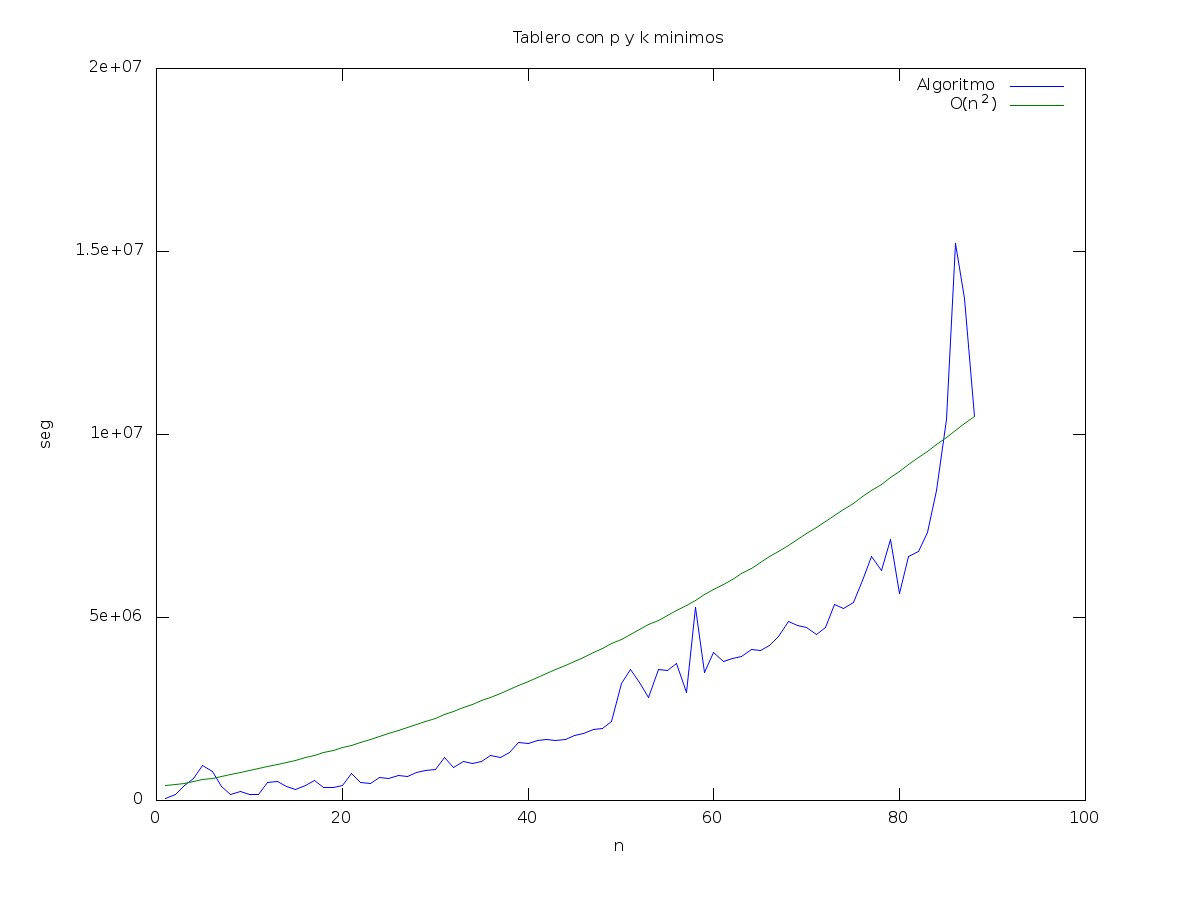
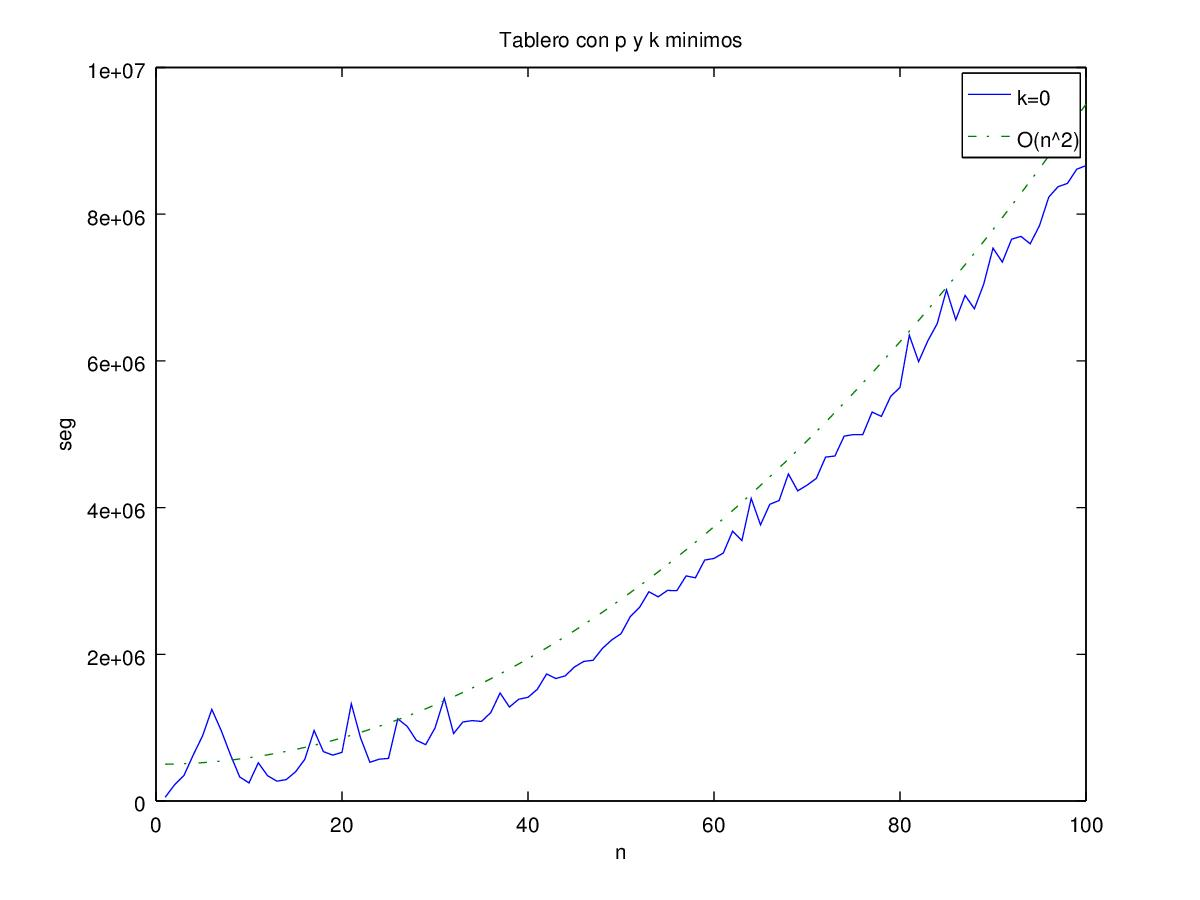
Informe terminado

diff --git a/docs/ej3.tex b/docs/ej3.tex
@@ -10,12 +10,12 @@ El problema esta en encontrar la cantidad m\'inima de saltos que puede hacer un 
 
 El problema lo modelamos con un grafo, donde cada casillero es un nodo del mismo, y existe arista entre dos nodos, si y solo si son alcanzables en un salto. Ahora bien, para determinar si existe un salto entre dos casilleros hay que tener en cuenta las potencias extras que poseemos al momento de realizar el salto. A pesar de ello, las aristas no tienen pesos, y por eso usando un algoritmo como BFS podemos determinar la distancia m\'inima entre dos nodos y es este el que vamos a usar para encontrar la soluci\'on al problema propuesto. 
 
-Asique lo que usamos es un BFS sobre un grafo \textit{din\'amico}, ya que el conjunto de nodos adyacentes a un nodo $v$ va a ir cambiando dependiendo de las potencias que tenga en ese momento, aunque como mucho puede en un casillero puedo saltar a todos los de arriba, a todos los de abajo y a todos los de los costados. Es decir, $d(v) \leq 2(n-1)$. 
+Asique lo que usamos es un BFS sobre un grafo \textit{din\'amico}, ya que el conjunto de nodos adyacentes a un nodo $v$ va a ir cambiando dependiendo de las potencias que tenga en ese momento, aunque como mucho puede en un casillero puedo saltar a todos los de arriba, a todos los de abajo y a todos los de los costados. Es decir, a grosso modo, $d(v) \leq 2(n-1)$. 
 
 Veamos que la complejidad pedida tambi\'en se cumple, ya que el grafo tiene $n^2$ nodos, y las aristas son: 
 
 \begin{equation*}
- m = \sum_{v \in V} d(v) / 2 \leq \sum_{v \in V} 2(n-1) / 2 = n^2 (n-1) = n^3 - n^2
+ |E| = \sum_{v \in V} d(v) / 2 \leq \sum_{v \in V} 2(n-1) / 2 = n^2 (n-1) = n^3 - n^2
 \end{equation*}
 
 Por lo tanto, la complejidad del BFS queda en $O(|V| + |E|) \leq O(n^2 + n^3 - n^2) = O(n^3) \in O(n^3 k)$. 
@@ -55,7 +55,7 @@ Una vez que encontramos a \code{dst} (sabemos que lo hace porque BFS termina), n
 A continuaci\'on escribiremos en pseudoc\'odigo el BFS y la construcci\'on de la soluci\'on
 
 \begin{algorithm}[H]
-\caption{int resolver(){}
+\caption{int resolver()}
 \begin{algorithmic}[1]
   \STATE return bfs([src], 1);
 \end{algorithmic}
@@ -82,7 +82,36 @@ A continuaci\'on escribiremos en pseudoc\'odigo el BFS y la construcci\'on de la
 
 \subsection{Test de complejidad}
 
-\subsection{Compilar y ejecutar}
+Como ya calculamos anteriormente en la secci\'on \textbf{Resoluci\'on}, la complejidad de nuestro algoritmo es $O(n^3)$, acotando la cantidad de adyacentes que puede tener un nodo por $2(n-1)$. 
+
+Aunque si queremos tener en cuenta a $k$, podemos considerar constante los $p$ y estimar que $d(v)$ va a ser menor o igual a $4k$, para cualquier $v$, ya que como mucho va a haber una arista a cada $k$ nodo en las cuatro direcciones. Luego, las cantidad de aristas del grafo del tablero es
+
+\begin{equation*}
+ |E| = \sum_{v \in V} d(v) / 2 \leq \sum_{v \in V} 4k / 2 = n^2 2k
+\end{equation*}
+
+Y la complejidad de BFS teniendo en cuenta a $k$ queda en $O(|V|+|E|) \leq O(n^2 + n^2 k) \leq O(n^2k) \in O(n^3k)$. 
+
+Para evaluar la complejidad analizamos tres casos: 
+
+\begin{enumerate}
+ \item Primero estudiamos el impacto del tama\~no del tablero en nuestro algoritmo, teniendo un $p$ constante m\'inimo, y sin potencia adicional. 
+ 
+ \item Segundo, siendo el tama\~no constante, como influye la cantidad de potencia adicional. 
+ 
+ \item Por \'ultimo, contrastamos el impacto de $k$ en tablero de distintos tama\~nos. 
+\end{enumerate}
+
+\ponerGrafico{./ej3/caso_uno.jpg}{Tiempo usando un tablero con $p=1$ y $k=0$}{0.6}{}
+Como era esperable, en funci\'on del tama\~no, el algoritmo resuelve el problema en un orden cuadrado. 
+
+\ponerGrafico{./ej3/caso_tres_lineal.jpg}{En funci\'on de $k$, fijando $n=100$}{0.6}{}
+
+Este caso tambi\'en confirmamos nuestros hip\'otesis de que en funci\'on del $k$, la complejidad es lineal. 
+
+\ponerGrafico{./ej3/caso_dos_plot.jpg}{Contraste de distintos tama\~nos, en funci\'on de $k$}{0.6}{}
+
+Como \'ultimo experimento quisimos constrastamo el impacto del $k$ en distintos tama\~nos, y si bien todos un crecimiento proporcional, a mayor tama\~no m\'as tiempo le toma al algoritmo encontrar la soluci\'on, y esto tiene sentido porque hay mayor cantidad de vecinos que recorrer. 
 
 \subsection{C\'odigo fuente}
 
@@ -215,6 +244,7 @@ Complejidad: $O(n)$
 \subsection{Adicionales}
 
 \subsubsection{Modificaciones del Algoritmo}
+
 La modificaci\'on del juego \textit{La Matrix} consiste en agregarle un costo proporcional al salto a cada resorte. Los jugadores aun tienen $k$ potencias que pueden utilizar para agregar gratuitamente potencias a su salto.
 
 Se nos pide modificar el algoritmo para llegar de un origen a destino con la m\'inima cantidad de costo posible.
@@ -227,9 +257,9 @@ En este juego, surge el problema de que puedo tener m\'as de un costo para llega
 
 \subsubsection{Modificaciones de la Complejidad}
 
-La complejidad depende principalmente del Algoritmo de Dijkstra, que se ejecuta sobre un grafo de $(n^2)k$ nodos. Si lo implementamos utilizando una cola de prioridad, Dijkstra tiene complejidad de $O((|V|)log(|V|))$ donde $V$ son los vertices del grafo, entonces la complejidad es de $O((n^2)k log((n^2)k)$ que es lo m\'ismo que $O(2(n^2)k log(nk))$.
+La complejidad depende principalmente del Algoritmo de Dijkstra, que se ejecuta sobre un grafo de $n^2k$ nodos. Si lo implementamos utilizando una cola de prioridad, Dijkstra tiene complejidad de $O(|V|\log(|V|))$ donde $V$ son los vertices del grafo, entonces la complejidad queda en $O(n^2k \log(n^2k))$.
 
-El nuevo algoritmo tambi\'en tiene la b\'usqueda de un m\'inimo en un arreglo de $k$ elementos para devolver la soluci\'on final, esta tiene complejidad $O(log k)$ si lo hacemos con busqueda binaria, aunque no afecta a la complejidad final ya que sumada a la de Dijkstra, esta \'ultima prevalece.
+El nuevo algoritmo tambi\'en tiene la b\'usqueda de un m\'inimo en un arreglo de $k$ elementos para devolver la soluci\'on final, esta tiene complejidad $O(\log k)$ si lo hacemos con busqueda binaria, aunque no afecta a la complejidad final ya que sumada a la de Dijkstra, esta \'ultima prevalece.
 
 
 

diff --git a/docs/ej3/caso2.m b/docs/ej3/caso2.m
@@ -3,18 +3,18 @@
 files = {};
 j = 1;
 for n = [25,50,75,100]
-	files{j,1} = sprintf("ej3_kdesde%d_khasta%d_n%d.txt", 1, 25, n);
+	files{j,1} = sprintf("ej3_kdesde%d_khasta%d_n%d_p1.txt", 1, 25, n);
 	j = j + 1;
 endfor
  
 [n,k,t] = load_files_with_3_cols(files);
 
-semilogy( k(n==25), t(n==25), "-+",
+plot( k(n==25), t(n==25), "-+",
           k(n==50), t(n==50), "-o",
           k(n==75), t(n==75), "-*",
           k(n==100), t(n==100), "-x" );
 
-title ("En funcion de los colores");
+title ("En funcion de k");
 xlabel ("k");
 ylabel ("seg");
 %axis([0,1,0,1e7]);axis "autox"; 

diff --git a/docs/ej3/caso1.m b/docs/ej3/caso1.m
@@ -1,16 +1,18 @@
 
 
-A = load("ej3_ndesde1_nhasta100_k0_p1.txt");
+files = {};
+j = 1;
+files{j,1} = sprintf("ej3_ndesde%d_nhasta%d_k%d_p1.txt", 1, 100, 0);
+ 
+[n,t] = load_files_with_2_cols(files);
 
-n = A(:,1);
-t = A(:,2);
-
-plot( n, t, n, ((n+20)*30).^2, "-.");
+plot( n, t, n, (n.*30).^2+5e5, "-.");
 
 title ("Tablero con p y k minimos");
 xlabel ("n");
 ylabel ("seg");
 %axis([0,1,0,1e7]);axis "autox"; 
-legend ("Algoritmo", "O(n^2)");
+legend ("k=0", "O(n^2)");
 
 print -djpeg caso_uno.jpg
+

diff --git a/docs/ej3/load_files_with_3_cols.m b/docs/ej3/load_files_with_3_cols.m
@@ -5,13 +5,11 @@ function [n,k,t] = load_files_with_3_cols(files)
 	t = [];
 	
 	for i = 1:length(files)
-		[n_i,k_i,t_i] = textread( files{i,1}, "%d %d", "delimiter", " ", "headerlines", 1);
+		[n_i,k_i,t_i] = textread( files{i,1}, "%d %d %d", "delimiter", " ", "headerlines", 1);
 
 		n = [n;n_i];
-		m = [m;m_i];
-		c = [c;c_i];
 		t = [t;t_i];
-		i = [i;i_i];
+		k = [k;k_i];
 	endfor
 
 endfunction

diff --git a/docs/ej3/caso3.m b/docs/ej3/caso3.m
@@ -1,0 +1,20 @@
+
+
+files = {};
+k = 25
+n = 75
+j = 1
+files{j,1} = sprintf("ej3_kdesde%d_khasta%d_n%d_p1_sesgado.txt", 1, k, n);
+ 
+[n,k,t] = load_files_with_3_cols(files);
+
+plot( k, t, k, k.*8e4+4.5e6, "-." );
+
+%title ("");
+xlabel ("k");
+ylabel ("seg");
+%axis([0,1,0,1e7]);axis "autox"; 
+legend ("n=100", "O(k)");
+
+print -djpeg caso_tres_lineal.jpg
+

diff --git a/docs/ej3/load_files_with_2_cols.m b/docs/ej3/load_files_with_2_cols.m
@@ -1,0 +1,13 @@
+function [n,t] = load_files_with_3_cols(files)
+
+	n = [];
+	t = [];
+	
+	for i = 1:length(files)
+		[n_i,t_i] = textread( files{i,1}, "%d %d", "delimiter", " ", "headerlines", 1);
+
+		n = [n;n_i];
+		t = [t;t_i];
+	endfor
+
+endfunction
